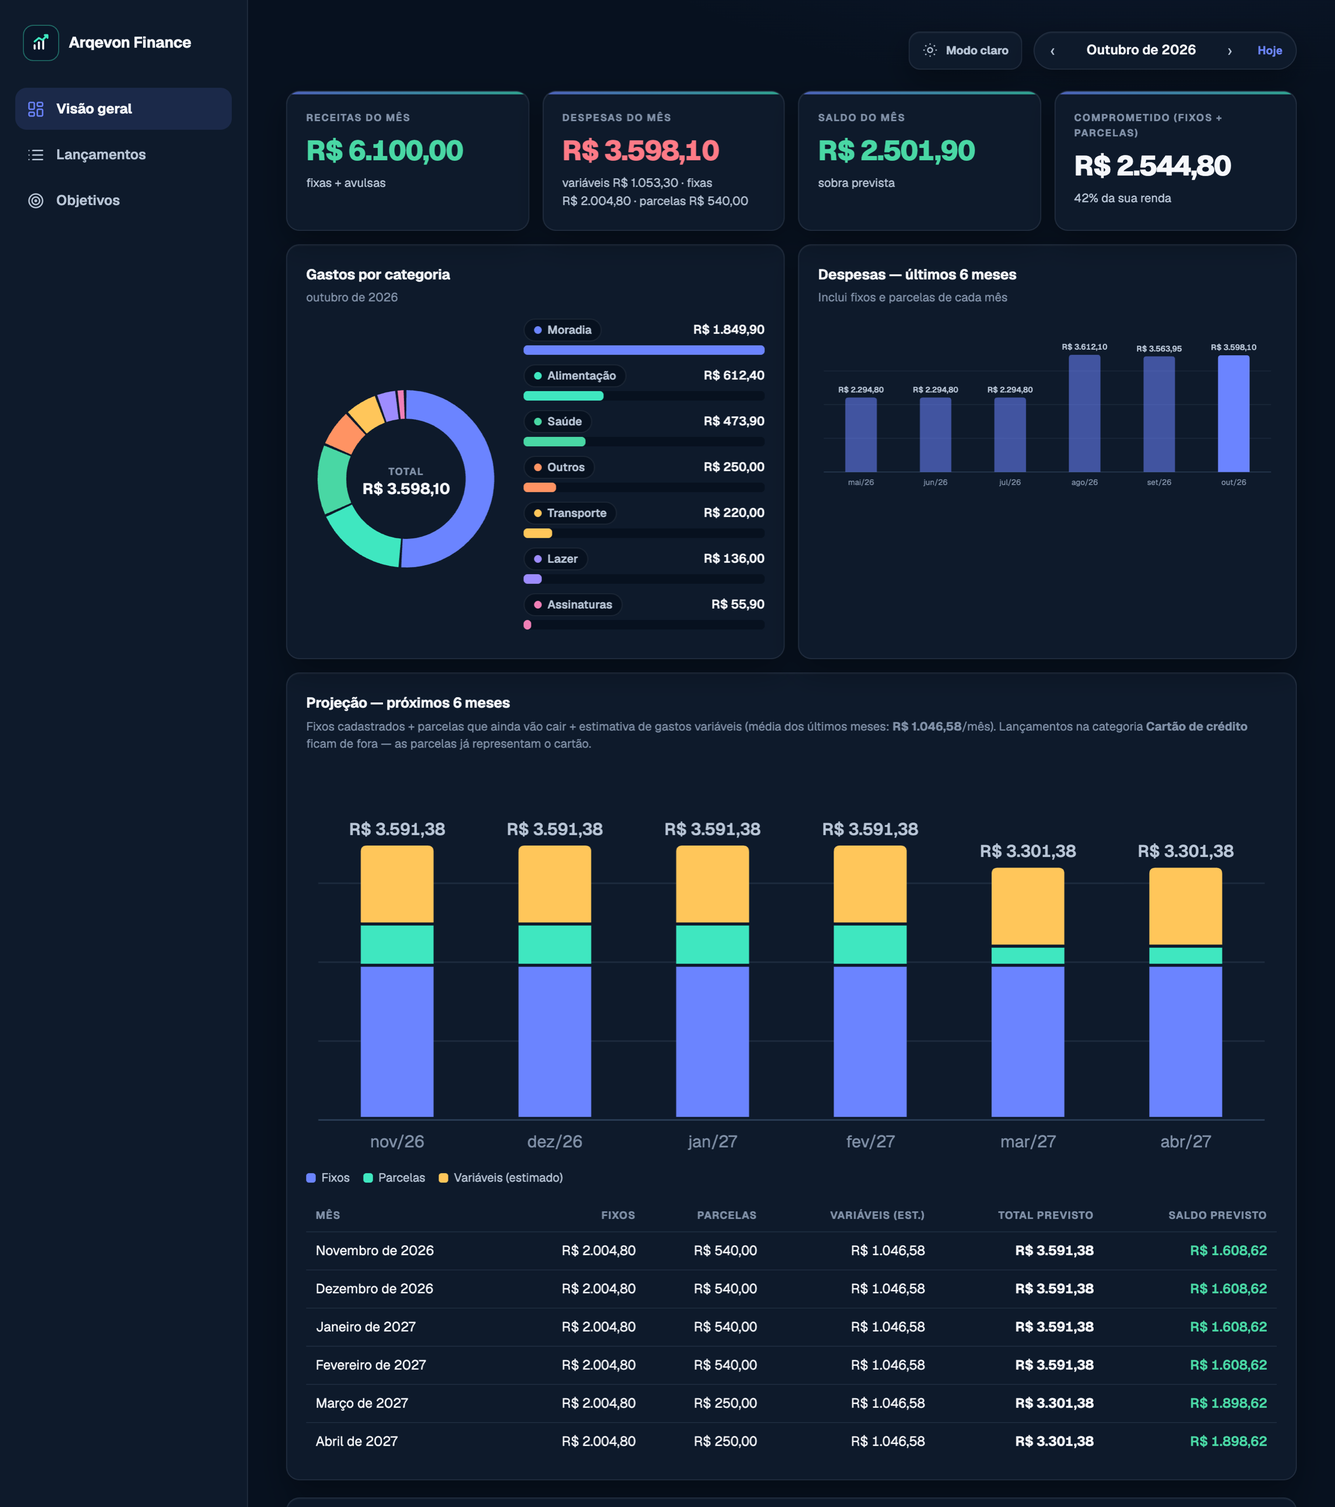
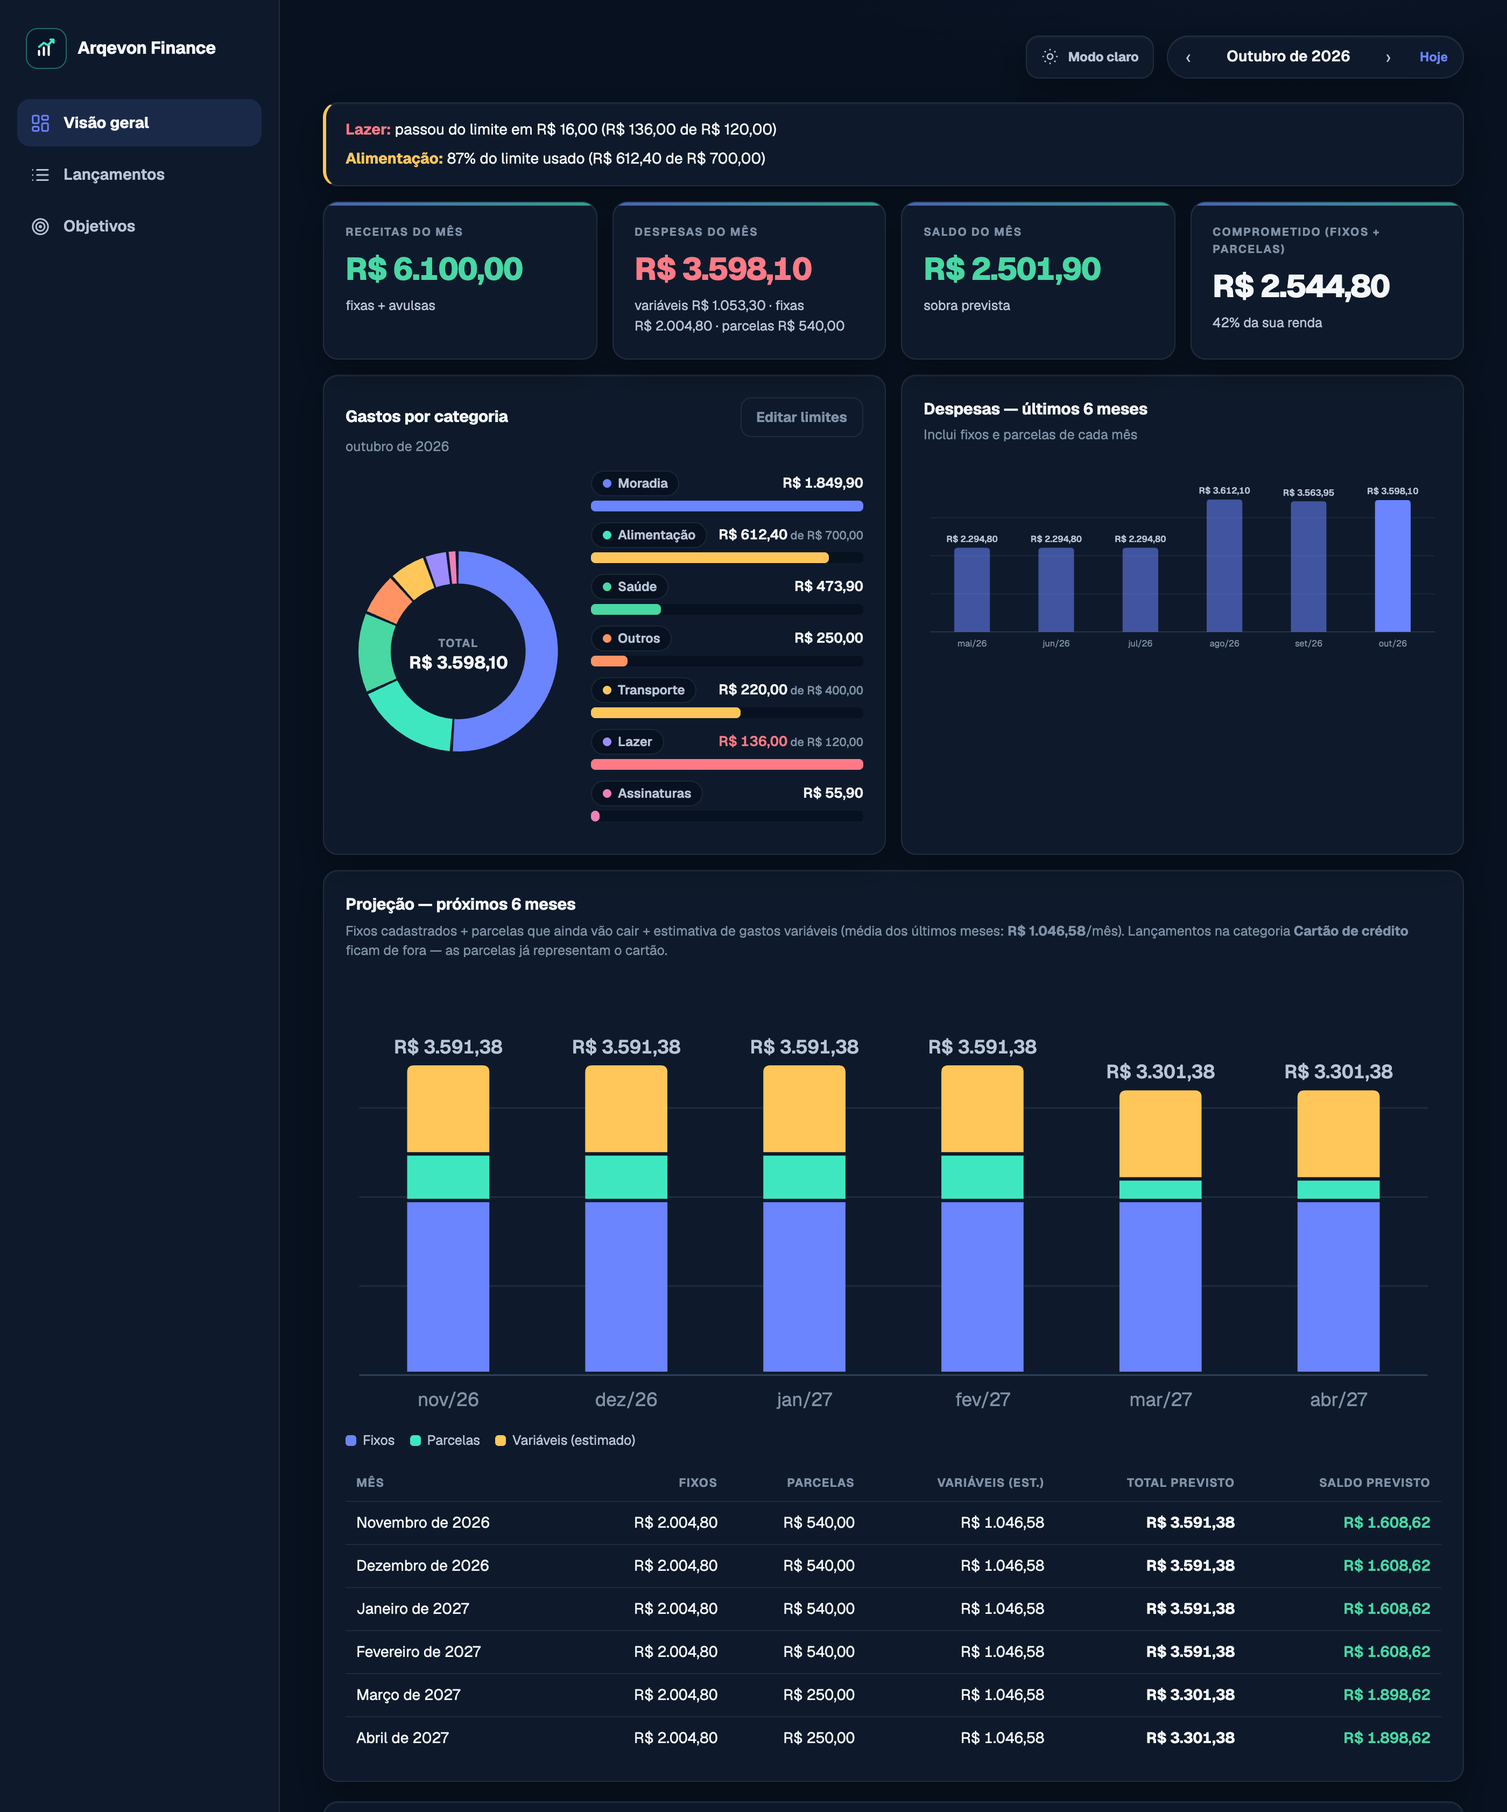
Orçamento por categoria com alerta (#25)
- Limite mensal por categoria (dados.orcamentos, um registro por
  categoria), sincronizado e cifrado como as outras coleções.
- Painel: "Definir limites", barras "R$ x de R$ y" (amarela a partir de
  80%, vermelha ao passar), categorias com limite aparecem mesmo sem
  gasto e um quadro de alertas no topo.
- Aviso ao lançar uma despesa que leva a categoria a 80% ou além do
  limite. Soma avulsos, contas fixas e parcelas.
- Exemplo com limites; backups antigos sem limites continuam abrindo.
- Site: /finance anuncia limites e importação de extrato e deixa de
  prometer exportação criptografada (o web exporta JSON comum).
- Regressão: REGRESSAO_IGNORAR e linhas em branco normalizadas.

diff --git a/apps/finance-desktop/meu-financeiro.html b/apps/finance-desktop/meu-financeiro.html
@@ -283,6 +283,26 @@ button.editar:hover { color: var(--accent); background: var(--accent-soft); }
   font-size: 13px; margin-bottom: 4px;
 }
 .barra-cat .topo-cat .v { font-variant-numeric: tabular-nums; font-weight: 600; }
+.barra-cat .topo-cat .v small { color: var(--muted); font-weight: 500; }
+.barra-cat.orc-perto .barra-progresso { --cat-color: var(--warn); }
+.barra-cat.orc-estourou .barra-progresso { --cat-color: var(--bad); }
+.barra-cat.orc-estourou .topo-cat .v { color: var(--bad); }
+.cab-card { display: flex; align-items: center; justify-content: space-between; gap: 10px; }
+.cab-card h2 { margin: 0; }
+.alertas-orc { display: grid; gap: 6px; padding: 14px 18px; margin-bottom: 14px; border-left: 3px solid var(--warn); }
+.alertas-orc p { margin: 0; font-size: 14px; }
+.alertas-orc p.orc-estourou b { color: var(--bad); }
+.alertas-orc p.orc-perto b { color: var(--warn); }
+.limites-lista { display: grid; gap: 8px; max-height: 50vh; overflow-y: auto; }
+.limites-lista label { display: grid; grid-template-columns: minmax(0, 1fr) 140px; align-items: center; gap: 10px; font-size: 14px; color: var(--ink); }
+.limites-lista input { font: inherit; font-size: 16px; color: var(--ink); background: var(--page); border: 1px solid var(--border); border-radius: 10px; padding: 8px 10px; width: 100%; }
+#avisoMotor {
+  position: fixed; left: 50%; bottom: 24px; transform: translateX(-50%); z-index: 60; width: min(520px, calc(100vw - 32px));
+  padding: 13px 16px; border-radius: 12px; background: var(--surface); color: var(--ink); font-size: 14px;
+  border: 1px solid var(--border); border-left: 4px solid var(--warn); box-shadow: 0 18px 50px rgba(0,0,0,.28);
+}
+#avisoMotor.estourou { border-left-color: var(--bad); }
+#avisoMotor[hidden] { display: none; }
 .barra-progresso {
   display: block; width: 100%; height: 10px; border: 0; border-radius: 4px;
   overflow: hidden; background: var(--page); appearance: none; -webkit-appearance: none;
@@ -401,13 +421,13 @@ details.hist summary { cursor: pointer; color: var(--muted); font-weight: 600; }
 }
 
 /* ---------- Segurança ---------- */
-dialog#modalSeg, dialog#modalConfirmacao, dialog#modalReset, dialog#modalGuia, dialog#modalExtrato {
+dialog#modalSeg, dialog#modalConfirmacao, dialog#modalReset, dialog#modalGuia, dialog#modalExtrato, dialog#modalLimites {
   border: 1px solid var(--border); border-radius: var(--radius);
   background: var(--surface); color: var(--ink);
   padding: 22px; max-width: 420px; width: calc(100vw - 48px);
   box-shadow: 0 20px 60px rgba(0,0,0,0.35);
 }
-dialog#modalSeg::backdrop, dialog#modalConfirmacao::backdrop, dialog#modalReset::backdrop, dialog#modalGuia::backdrop, dialog#modalExtrato::backdrop { background: rgba(0,0,0,0.5); backdrop-filter: blur(3px); }
+dialog#modalSeg::backdrop, dialog#modalConfirmacao::backdrop, dialog#modalReset::backdrop, dialog#modalGuia::backdrop, dialog#modalExtrato::backdrop, dialog#modalLimites::backdrop { background: rgba(0,0,0,0.5); backdrop-filter: blur(3px); }
 dialog#modalSeg h2, dialog#modalConfirmacao h2, dialog#modalReset h2 { margin: 0 0 4px; font-size: 17px; }
 .botao.confirmar-perigo { background: var(--bad); box-shadow: none; }
 .reset-campo { display: grid; gap: 5px; margin-top: 16px; font-size: 12px; font-weight: 700; color: var(--ink-2); }
@@ -798,6 +818,17 @@ dialog#modalGuia { max-width: 560px; }
   </div>
 </dialog>
 
+<dialog id="modalLimites" aria-labelledby="limTitulo">
+  <h2 id="limTitulo">Limite por categoria</h2>
+  <p class="hint">Quanto você quer gastar no máximo em cada categoria por mês, somando avulsos, contas fixas e parcelas. Deixe em branco para não ter limite. Você recebe um aviso ao chegar em 80% e ao passar do limite.</p>
+  <div class="limites-lista" id="limLista"></div>
+  <div class="sec-acoes">
+    <button class="botao cancelar" type="button" id="limCancelar">Cancelar</button>
+    <button class="botao" type="button" id="limSalvar">Salvar limites</button>
+  </div>
+</dialog>
+<div id="avisoMotor" role="status" hidden></div>
+
 <dialog id="modalReset">
   <h2>Resetar todos os dados?</h2>
   <p class="hint" id="resetMensagem"></p>
@@ -874,6 +905,8 @@ function normalizar(d) {
     parcelamentos: lista(d.parcelamentos).filter(p => typeof p.inicio === "string" && /^\d{4}-\d{2}$/.test(p.inicio)
       && num(p.valorTotal) && Number.isInteger(p.numParcelas) && p.numParcelas >= 1),
     objetivos: lista(d.objetivos).map(o => ({ ...o, aportes: lista(o.aportes).filter(a => typeof a.data === "string" && num(a.valor)) })),
+    // Limite mensal por categoria: um registro por categoria (id = categoria), para sincronizar.
+    orcamentos: lista(d.orcamentos).filter(o => typeof o.categoria === "string" && num(o.limite) && o.limite > 0),
   };
 }
 let dados = carregar();
@@ -886,7 +919,7 @@ function carregar() {
       if (bruto && Array.isArray(bruto.lancamentos)) return normalizar(bruto);
     } catch (e) {}
   }
-  return { lancamentos: [], fixos: [], parcelamentos: [], objetivos: [] };
+  return { lancamentos: [], fixos: [], parcelamentos: [], objetivos: [], orcamentos: [] };
 }
 function salvar() {
   if (exemplo) return; // dados fictícios do exemplo nunca são gravados
@@ -1014,6 +1047,17 @@ function projecao(nMeses = 6) {
     });
   }
   return { meses: out, media };
+}
+
+/* ================= Orçamento por categoria ================= */
+const limiteDe = cat => dados.orcamentos.find(o => o.categoria === cat)?.limite || 0;
+/** Categorias com limite no mês: gasto, limite e situação (ok, perto a partir de 80%, estourou). */
+function situacaoOrcamento(mk) {
+  const gastos = Object.fromEntries(gastosPorCategoria(mk).map(x => [x.cat.id, x.valor]));
+  return dados.orcamentos.map(o => {
+    const gasto = gastos[o.categoria] || 0, pct = gasto / o.limite;
+    return { cat: catPorId(o.categoria), gasto, limite: o.limite, pct, estado: pct > 1 ? "estourou" : pct >= 0.8 ? "perto" : "ok" };
+  }).sort((a, b) => b.pct - a.pct);
 }
 
 /* ================= Utilidades de UI ================= */
@@ -1156,6 +1200,10 @@ function renderPainel() {
   const r = resumoDoMes(mk);
   const cats = gastosPorCategoria(mk);
   const totalCats = cats.reduce((s, c) => s + c.valor, 0);
+  const orc = situacaoOrcamento(mk);
+  const alertas = orc.filter(o => o.estado !== "ok");
+  // categorias com limite aparecem mesmo sem gasto, para a pessoa ver quanto ainda pode gastar
+  const linhasCat = [...cats, ...orc.filter(o => !cats.some(c => c.cat.id === o.cat.id)).map(o => ({ cat: o.cat, valor: 0 }))];
 
   const serie = [];
   for (let i = 5; i >= 0; i--) {
@@ -1193,6 +1241,10 @@ function renderPainel() {
         <button class="botao cancelar" type="button" onclick="verExemplo()">Ver um exemplo</button>
       </div>
     </div>` : `
+    ${alertas.length ? `<div class="card alertas-orc" role="status">${alertas.map(o => `<p class="orc-${o.estado}">
+      <b>${o.cat.nome}:</b> ${o.estado === "estourou"
+        ? `passou do limite em ${dinheiro(o.gasto - o.limite)} (${dinheiro(o.gasto)} de ${dinheiro(o.limite)})`
+        : `${Math.round(o.pct * 100)}% do limite usado (${dinheiro(o.gasto)} de ${dinheiro(o.limite)})`}</p>`).join("")}</div>` : ""}
     <div class="grid tiles">
       <div class="card tile">
         <div class="rotulo">Receitas do mês</div>
@@ -1218,18 +1270,22 @@ function renderPainel() {
 
     <div class="grid duas">
       <div class="card viz">
-        <h2>Gastos por categoria</h2>
-        <p class="hint">${rotuloMes(mesAtual)}</p>
-        ${cats.length ? `
+        <div class="cab-card"><h2>Gastos por categoria</h2>
+          <button class="botao mini cancelar" type="button" onclick="abrirLimites()">${dados.orcamentos.length ? "Editar limites" : "Definir limites"}</button></div>
+        <p class="hint">${rotuloMes(mesAtual)}${dados.orcamentos.length ? "" : " · defina um limite por categoria e receba um aviso ao chegar perto"}</p>
+        ${linhasCat.length ? `
           <div style="display:flex; gap:18px; align-items:center; flex-wrap:wrap">
             <div style="flex:0 1 210px; min-width:170px">${graficoDonut(cats, totalCats)}</div>
             <div style="flex:1 1 220px">
-              ${cats.map(({ cat, valor }) => `
-                <div class="barra-cat">
+              ${linhasCat.map(({ cat, valor }) => {
+                const lim = limiteDe(cat.id), o = orc.find(x => x.cat.id === cat.id);
+                return `
+                <div class="barra-cat${o ? ` orc-${o.estado}` : ""}">
                   <div class="topo-cat"><span class="chip"><span class="ponto cor-${cat.id}"></span>${cat.nome}</span>
-                  <span class="v">${dinheiro(valor)}</span></div>
-                  <progress class="barra-progresso cor-${cat.id}" max="${cats[0].valor}" value="${valor}" aria-label="${esc(cat.nome)}: ${dinheiro(valor)}"></progress>
-                </div>`).join("")}
+                  <span class="v">${dinheiro(valor)}${lim ? `<small> de ${dinheiro(lim)}</small>` : ""}</span></div>
+                  <progress class="barra-progresso cor-${cat.id}" max="${lim || cats[0]?.valor || 1}" value="${Math.min(valor, lim || valor)}" aria-label="${esc(cat.nome)}: ${dinheiro(valor)}${lim ? ` de ${dinheiro(lim)}` : ""}"></progress>
+                </div>`;
+              }).join("")}
             </div>
           </div>` : `<div class="vazio">Nenhum gasto neste mês ainda.</div>`}
       </div>
@@ -1520,6 +1576,44 @@ $("#eCancelar").onclick = () => {
   $("#formEntrada").reset(); limparEdicao();
 };
 
+/* ================= Limites por categoria ================= */
+const CATS_COM_LIMITE = CATEGORIAS.filter(c => c.id !== "cartao"); // pagamento de fatura já aparece nas parcelas
+window.abrirLimites = () => {
+  sairExemplo();
+  $("#limLista").innerHTML = CATS_COM_LIMITE.map(c => `<label><span><span class="ponto cor-${c.id}" style="display:inline-block;width:8px;height:8px;border-radius:50%;background:var(--cat-color);margin-right:8px"></span>${c.nome}</span>
+    <input data-limite="${c.id}" inputmode="numeric" autocomplete="off" placeholder="sem limite" value="${limiteDe(c.id) ? fmtInput(limiteDe(c.id)) : ""}" aria-label="Limite de ${c.nome}"></label>`).join("");
+  $("#limLista").querySelectorAll("input").forEach(mascaraMoeda);
+  $("#modalLimites").showModal();
+};
+$("#limCancelar").onclick = () => $("#modalLimites").close();
+$("#limSalvar").onclick = () => {
+  dados.orcamentos = [...document.querySelectorAll("[data-limite]")]
+    .map(el => ({ id: el.dataset.limite, categoria: el.dataset.limite, limite: valorDe(el) }))
+    .filter(o => o.limite > 0);
+  salvar();
+  $("#modalLimites").close();
+  renderTudo();
+};
+
+let timerAviso = null;
+function avisarMotor(texto, classe = "") {
+  const el = $("#avisoMotor");
+  el.textContent = texto;
+  el.className = classe;
+  el.hidden = false;
+  clearTimeout(timerAviso);
+  timerAviso = setTimeout(() => { el.hidden = true; }, 7000);
+}
+/** Depois de gravar uma despesa: avisa se a categoria passou de 80% ou do limite neste lançamento. */
+function avisarSeChegouNoLimite(cat, mk, antes) {
+  const lim = limiteDe(cat);
+  if (!lim) return;
+  const depois = (gastosPorCategoria(mk).find(x => x.cat.id === cat)?.valor || 0);
+  const nome = catPorId(cat).nome, mes = rotuloMes(deChave(mk));
+  if (depois > lim && antes <= lim) avisarMotor(`${nome} passou do limite de ${dinheiro(lim)} em ${mes}: ${dinheiro(depois)} gastos.`, "estourou");
+  else if (depois >= lim * 0.8 && antes < lim * 0.8 && depois <= lim) avisarMotor(`${nome} chegou a ${Math.round(depois / lim * 100)}% do limite em ${mes}: ${dinheiro(depois)} de ${dinheiro(lim)}.`);
+}
+
 /* ================= Contas fixas: gravar nova ou editada ================= */
 // Editar uma conta que já valia em meses anteriores pergunta se a mudança vale "a partir deste
 // mês" (o histórico fica como estava, ex.: o aluguel aumentou) ou "em todos os meses" (correção).
@@ -1566,6 +1660,7 @@ $("#formLanc").addEventListener("submit", async e => {
   const original = fixoEmEdicao("lanc");
   const modo = rep === "fixo" ? await decidirFixo(original, mk) : null;
   if (modo === false) return;
+  const gastoAntes = gastosPorCategoria(mk).find(x => x.cat.id === cat)?.valor || 0;
 
   removerOriginal("lanc");
   if (rep === "fixo") {
@@ -1586,6 +1681,7 @@ $("#formLanc").addEventListener("submit", async e => {
   $("#lRep").dispatchEvent(new Event("change"));
   mesAtual = deChave(mk); // mostra o mês do lançamento
   renderTudo();
+  avisarSeChegouNoLimite(cat, mk, gastoAntes);
 });
 
 /* ================= Formulário de entradas ================= */
@@ -2025,6 +2121,11 @@ function dadosExemplo() {
       { id: uid(), descricao: "Celular", valorTotal: 2500, numParcelas: 10, categoria: "outros", inicio: mk(-2) },
       { id: uid(), descricao: "Geladeira", valorTotal: 3480, numParcelas: 12, categoria: "moradia", inicio: mk(-7) },
     ],
+    orcamentos: [
+      { id: "alimentacao", categoria: "alimentacao", limite: 700 },
+      { id: "lazer", categoria: "lazer", limite: 120 },
+      { id: "transporte", categoria: "transporte", limite: 400 },
+    ],
     objetivos: [
       { id: uid(), nome: "Reserva de emergência", meta: 15000, aporteMensal: 500,
         aportes: [-2, -1, 0].map(n => ({ id: uid(), valor: 500, data: dia(n, 6) })) },
@@ -2452,7 +2553,7 @@ $("#btnImportar").onclick = () => { sairExemplo(); $("#arqImportar").click(); };
 /* ================= Resetar todos os dados ================= */
 $("#btnResetar").onclick = () => {
   sairExemplo();
-  const n = dados.lancamentos.length + dados.fixos.length + dados.parcelamentos.length + dados.objetivos.length;
+  const n = dados.lancamentos.length + dados.fixos.length + dados.parcelamentos.length + dados.objetivos.length + dados.orcamentos.length;
   if (n === 0) return;
   $("#resetMensagem").textContent = `Isso apagará ${n} ${n === 1 ? "item" : "itens"}, incluindo lançamentos, contas fixas, parcelas e objetivos. Uma cópia local de recuperação será criada antes. Se o backup automático estiver ativo, o arquivo externo poderá ser sobrescrito vazio.`;
   $("#resetConfirmacao").value = "";
@@ -2470,7 +2571,7 @@ $("#resetAceitar").onclick = () => {
   }
   guardarCopia(CHAVE + "-pre-reset", dados); // última rede de segurança
   localStorage.removeItem(CHAVE + "-pre-import");
-  dados = { lancamentos: [], fixos: [], parcelamentos: [], objetivos: [] };
+  dados = { lancamentos: [], fixos: [], parcelamentos: [], objetivos: [], orcamentos: [] };
   salvar();
   limparEdicao();
   mesAtual = { ano: hoje.getFullYear(), mes: hoje.getMonth() };

diff --git a/apps/site/app/finance/page.tsx b/apps/site/app/finance/page.tsx
@@ -22,11 +22,11 @@ const APP_URL = process.env.NEXT_PUBLIC_APP_URL || "https://app.arqevoncode.com.
 
 const recursos = [
   { titulo: "Fixos, avulsos e parcelados", texto: "Salário, aluguel, mercado e a parcela 4 de 12 do cartão entram na mesma lista. As contas do mês se montam sozinhas." },
-  { titulo: "Gastos por categoria", texto: "Veja para onde o dinheiro foi: moradia, alimentação, transporte e o que mais você usar." },
+  { titulo: "Gastos e limites por categoria", texto: "Veja para onde o dinheiro foi e defina um limite por categoria: o app avisa ao chegar em 80% e ao passar do limite." },
   { titulo: "Projeção dos próximos meses", texto: "Fixos, parcelas que ainda vão cair e a média dos gastos variáveis, somados para os próximos 6 meses." },
   { titulo: "Quanto da renda já está comprometido", texto: "Fixos e parcelas somados, em reais e em porcentagem da sua renda." },
   { titulo: "Objetivos com aportes", texto: "Reserva de emergência, viagem ou um notebook novo: acompanhe quanto falta para cada meta." },
-  { titulo: "Backup protegido por senha", texto: "Exporte seus dados em um arquivo criptografado e leve para outro computador quando quiser." },
+  { titulo: "Importe o extrato do banco", texto: "Arquivo OFX ou CSV do seu banco, com categorias sugeridas e revisão antes de salvar. O arquivo não sai do seu aparelho." },
 ];
 
 const passos = [
@@ -76,7 +76,7 @@ export default function Finance() {
         <div className="lp-hero-tela">
           <div className="lp-janela">
             <div className="lp-janela-barra"><i /><i /><i /><span>app.arqevoncode.com.br</span></div>
-            <Image src="/produto/visao-geral.png" alt="Tela Visão geral do Arqevon Finance com receitas, despesas, saldo, gastos por categoria e projeção" width={2800} height={3160} priority sizes="(max-width: 960px) 100vw, 640px" />
+            <Image src="/produto/visao-geral.png" alt="Tela Visão geral do Arqevon Finance com alertas de limite, receitas, despesas, saldo, gastos por categoria e projeção" width={2800} height={3366} priority sizes="(max-width: 960px) 100vw, 640px" />
           </div>
         </div>
       </section>
@@ -134,7 +134,7 @@ export default function Finance() {
           <li><strong>Guardados no seu aparelho.</strong> No plano grátis, seus lançamentos não saem do seu navegador ou computador.</li>
           <li><strong>Protegidos por senha.</strong> Ative a criptografia (AES-256) e só quem tem a senha abre os dados.</li>
           <li><strong>Sem venda de dados, sem anúncios.</strong> O produto é o app, não você.</li>
-          <li><strong>Exporte quando quiser.</strong> Backup protegido em arquivo, para levar seus dados para onde quiser.</li>
+          <li><strong>Exporte quando quiser.</strong> Seus dados num arquivo, para guardar ou levar para onde quiser.</li>
         </ul>
       </section>
 

diff --git a/apps/web/src/sync.js b/apps/web/src/sync.js
@@ -2,14 +2,14 @@
 // para ser testado com dois "aparelhos" e um servidor falso (tests/sync.test.mjs).
 //
 // Regras:
-// - Cada registro (lançamento, fixo, parcelamento, objetivo) é um item cifrado na nuvem.
+// - Cada registro (lançamento, fixo, parcelamento, objetivo, limite) é um item cifrado na nuvem.
 // - Mudança local ainda não enviada vence a remota no mesmo registro: o usuário nunca perde o que
 //   acabou de digitar. Fora disso, vale a ordem do servidor (rev).
 // - Nunca sincroniza com o app bloqueado, nem aplica mudanças enquanto o usuário edita um campo.
 // - Apagar muita coisa de uma vez pede confirmação; recusada, os registros voltam da nuvem.
 import { idDoItem, cifrarItem, decifrarItem, hashRegistro } from "./cofre.js";
 
-export const COLECOES = ["lancamentos", "fixos", "parcelamentos", "objetivos"];
+export const COLECOES = ["lancamentos", "fixos", "parcelamentos", "objetivos", "orcamentos"];
 const LOTE = 500;
 
 export function estadoVazio(owner) {

diff --git a/apps/web/src/nuvem.js b/apps/web/src/nuvem.js
@@ -111,7 +111,7 @@ export function criarNuvem({ supabase, aoMudar }) {
     if (dono && dono !== uid && temDados(motor.ler())) {
       const ok = window.confirm("Este navegador tem lançamentos de outra conta. Para abrir os dados da sua nuvem aqui, eles serão substituídos (a outra conta continua com os dela na nuvem). Continuar?");
       if (!ok) return false;
-      motor.gravar({ lancamentos: [], fixos: [], parcelamentos: [], objetivos: [] });
+      motor.gravar({ lancamentos: [], fixos: [], parcelamentos: [], objetivos: [], orcamentos: [] });
     }
     localStorage.setItem(DONO, uid);
     return true;
